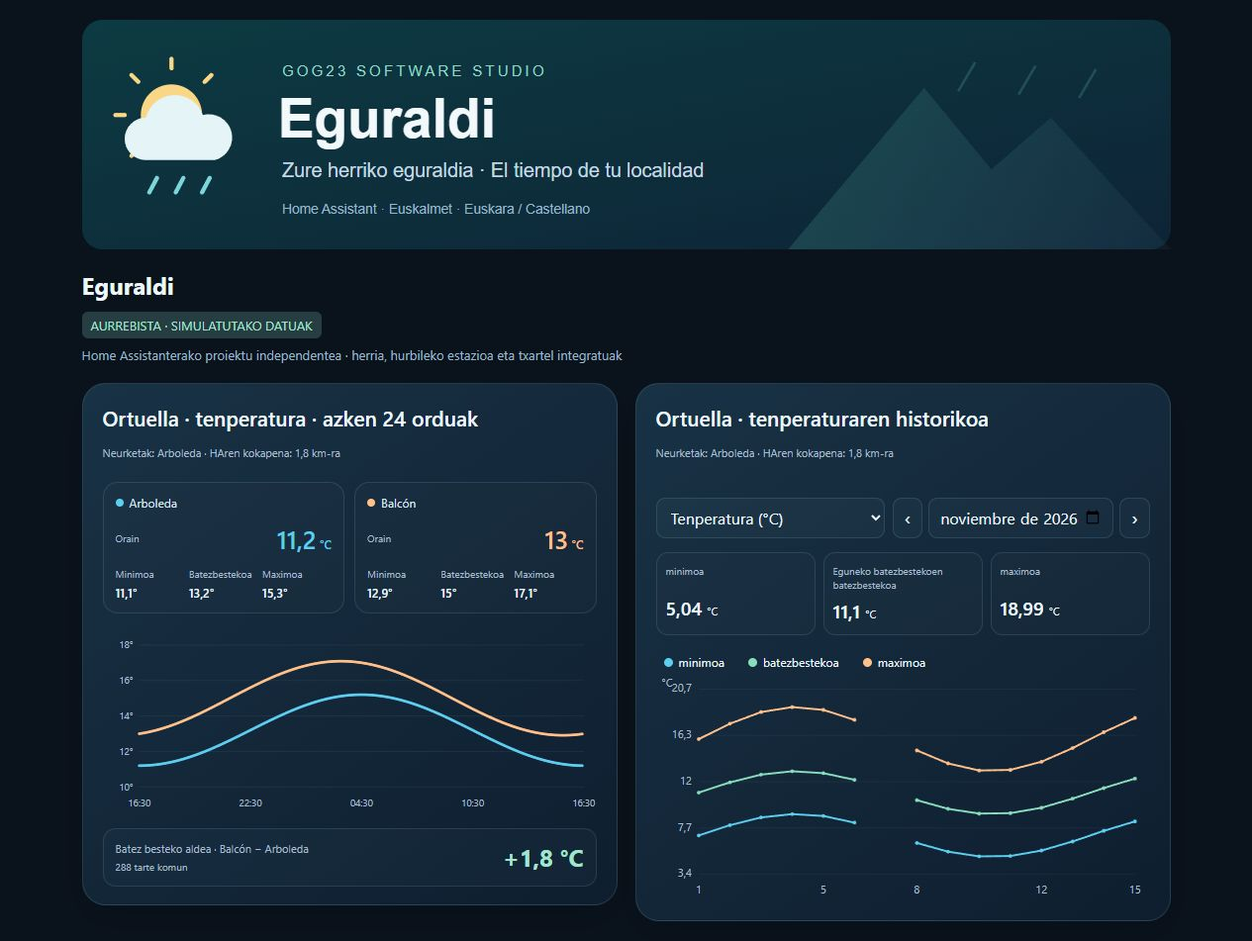
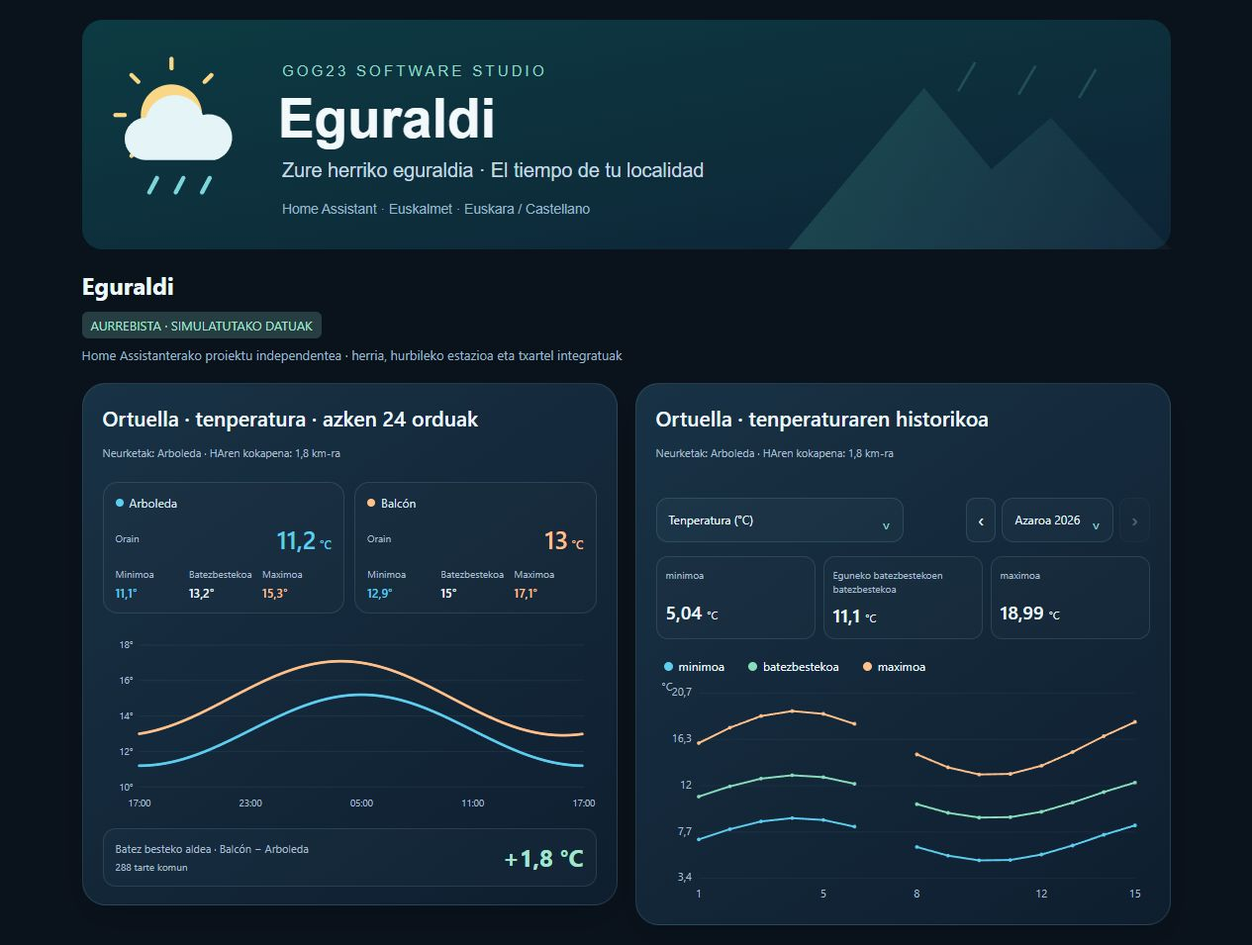
Replace history selectors with styled measure and month pickers

diff --git a/custom_components/euskalmet_local/frontend/euskalmet-history-card.js b/custom_components/euskalmet_local/frontend/euskalmet-history-card.js
@@ -7,6 +7,9 @@ class EuskalmetHistoryCard extends HTMLElement {
     this.date.setDate(1);
     this.retries = 0;
     this.hiddenSeries = new Set();
+    this._outsidePicker = event => {
+      if (!event.composedPath().includes(this)) this.closePickers();
+    };
   }
 
   setConfig(config) {
@@ -39,8 +42,8 @@ class EuskalmetHistoryCard extends HTMLElement {
     this.error = null; this.retries = 0;
   }
 
-  connectedCallback() { this.scheduleLoad(); }
-  disconnectedCallback() { clearTimeout(this.retryTimer); }
+  connectedCallback() { document.addEventListener('pointerdown',this._outsidePicker);this.scheduleLoad(); }
+  disconnectedCallback() { document.removeEventListener('pointerdown',this._outsidePicker);clearTimeout(this.retryTimer); }
   getCardSize() { return 7; }
   static getStubConfig() { return { measure: "temperature" }; }
 
@@ -54,7 +57,7 @@ class EuskalmetHistoryCard extends HTMLElement {
       loadError: "Ezin izan da historikoa kargatu.",
       retry: "Saiatu berriro",
       noData: "Ez dago hilabete honetako daturik.",
-      selectDate: "Aukeratu hilabetea",
+      selectDate: "Aukeratu hilabetea", selectMeasure:"Aukeratu neurria",previousYear:"Aurreko urtea",nextYear:"Hurrengo urtea",
       previous: "Aurreko hilabetea",
       next: "Hurrengo hilabetea",
       showSeries: "Erakutsi seriea",
@@ -74,7 +77,7 @@ class EuskalmetHistoryCard extends HTMLElement {
       loadError: "No se pudo cargar el histórico.",
       retry: "Reintentar",
       noData: "No hay datos para este mes.",
-      selectDate: "Seleccionar mes",
+      selectDate: "Seleccionar mes", selectMeasure:"Seleccionar medida",previousYear:"Año anterior",nextYear:"Año siguiente",
       previous: "Mes anterior",
       next: "Mes siguiente",
       showSeries: "Mostrar serie",
@@ -177,15 +180,56 @@ class EuskalmetHistoryCard extends HTMLElement {
   }
 
   changeDate(year, month) {
-    const next = new Date(year, month - 1, 1);
+    const next = new Date();next.setFullYear(year,month-1,1);next.setHours(0,0,0,0);
+    if (!Number.isFinite(next.getTime())) return;
     const now = new Date();
     const currentMonth = new Date(now.getFullYear(), now.getMonth(), 1);
     if (next > currentMonth) return;
     this.date = next;
-    this.data = null;
-    this.loaded = false;
-    this.retries = 0;
+    this._picker=null;this._pickerYear=next.getFullYear();
+    this._invalidateSource();
+    this.render();
     this.scheduleLoad(true);
+  }
+
+  monthLabel(index,short=false) {
+    const names=this.text().locale==='eu-ES'
+      ? ['urtarrila','otsaila','martxoa','apirila','maiatza','ekaina','uztaila','abuztua','iraila','urria','azaroa','abendua']
+      : ['enero','febrero','marzo','abril','mayo','junio','julio','agosto','septiembre','octubre','noviembre','diciembre'];
+    return short?names[index].slice(0,3):names[index];
+  }
+
+  closePickers() {
+    this._picker=null;
+    this.shadowRoot.querySelectorAll('details.picker').forEach(picker=>{picker.open=false;});
+  }
+
+  bindPickers() {
+    const root=this.shadowRoot;
+    root.querySelectorAll('details.picker').forEach(picker=>{
+      picker.addEventListener('toggle',()=>{
+        if(picker.open){this._picker=picker.dataset.picker;root.querySelectorAll('details.picker').forEach(other=>{if(other!==picker)other.open=false;});}
+        else if(this._picker===picker.dataset.picker)this._picker=null;
+      });
+      picker.addEventListener('keydown',event=>{
+        if(event.key==='Escape'){event.preventDefault();this.closePickers();picker.querySelector('summary').focus();}
+        if(['ArrowDown','ArrowUp','Home','End'].includes(event.key)){
+          event.preventDefault();picker.open=true;
+          const buttons=Array.from(picker.querySelectorAll('.picker-panel button:not(:disabled)'));
+          const current=buttons.indexOf(root.activeElement),next=event.key==='Home'?0:event.key==='End'?buttons.length-1:current<0?(event.key==='ArrowUp'?buttons.length-1:0):(current+(event.key==='ArrowUp'?-1:1)+buttons.length)%buttons.length;
+          buttons[next]?.focus();
+        }
+      });
+    });
+    root.querySelectorAll('[data-measure]').forEach(button=>button.addEventListener('click',()=>{
+      this.config.measure=button.dataset.measure;this.hiddenSeries.clear();this.closePickers();this.render();root.querySelector('#measure').focus();
+    }));
+    root.querySelectorAll('[data-year-step]').forEach(button=>button.addEventListener('click',()=>{
+      this._pickerYear+=Number(button.dataset.yearStep);this._picker='date';this.render();root.querySelector(`[data-year-step="${button.dataset.yearStep}"]`).focus();
+    }));
+    root.querySelectorAll('[data-month]').forEach(button=>button.addEventListener('click',()=>{
+      this.changeDate(this._pickerYear,Number(button.dataset.month));root.querySelector('#month').focus();
+    }));
   }
 
   shift(delta) {
@@ -279,7 +323,8 @@ class EuskalmetHistoryCard extends HTMLElement {
         return `<path class="line" data-field="${series.field}" stroke="${series.color}" d="${path}"/>${dots}`;
       }).join('');
     }).join("");
-    const month = this.date.toLocaleDateString(text.locale, { month: "long", year: "numeric" });
+    const month = `${this.monthLabel(this.date.getMonth())} ${this.date.getFullYear()}`;
+    const pickerYear=this._pickerYear??this.date.getFullYear();this._pickerYear=pickerYear;
 
     return `<div class="legend">${allSeries.map((series) => {
       const hidden = this.hiddenSeries.has(series.field);
@@ -383,7 +428,8 @@ class EuskalmetHistoryCard extends HTMLElement {
     const monthValue = `${this.date.getFullYear()}-${String(this.date.getMonth() + 1).padStart(2, "0")}`;
     const now = new Date();
     const maximumMonth = `${now.getFullYear()}-${String(now.getMonth() + 1).padStart(2, "0")}`;
-    const month = this.date.toLocaleDateString(text.locale, { month: "long", year: "numeric" });
+    const month = `${this.monthLabel(this.date.getMonth())} ${this.date.getFullYear()}`;
+    const pickerYear=this._pickerYear??this.date.getFullYear();this._pickerYear=pickerYear;
     const graph = this.graph(text);
     const body = this.loading ? `<div class="message">${text.loading}</div>`
       : this.error
@@ -394,12 +440,19 @@ class EuskalmetHistoryCard extends HTMLElement {
       :host{display:block}*{box-sizing:border-box}ha-card{display:block;padding:18px;overflow:hidden;background:linear-gradient(145deg,#1b3246,#101e30);border:1px solid #9acdd926;border-radius:22px;color:#edf8ff;font-family:var(--primary-font-family,system-ui)}ha-card.embedded{padding:0 20px 18px;border:0;border-radius:0;background:transparent;box-shadow:none}
       header{display:flex;justify-content:space-between;gap:16px;align-items:flex-start}
       h2{font-size:20px;margin:0 0 3px}header small{color:#a9becf;text-transform:capitalize}
-      .controls{display:flex;gap:8px;align-items:center;flex-wrap:wrap;margin:16px 0 4px}
-      .date-tools{display:flex;gap:6px;margin-left:auto}
+      .controls{position:relative;z-index:3;display:flex;gap:8px;align-items:center;flex-wrap:wrap;margin:16px 0 4px}
+      .date-tools{display:flex;gap:6px;margin-left:auto;min-width:0}
       button,select,input{font:inherit;color:#edf8ff;background:#87b5d00b;
         border:1px solid #9acdd926;border-radius:9px;padding:8px 10px}
       button{cursor:pointer}button:hover{background:#87b5d022}button:focus-visible,select:focus-visible,input:focus-visible{outline:2px solid #68cef3;outline-offset:2px}
-      input[type="month"]{color-scheme:light dark;min-width:145px}
+      .picker{position:relative;min-width:0}.picker summary{display:flex;align-items:center;justify-content:space-between;gap:12px;list-style:none;font-size:12px;min-height:42px;cursor:pointer;color:#edf8ff;background:#87b5d00b;border:1px solid #9acdd926;border-radius:12px;padding:10px 12px}
+      .picker summary::-webkit-details-marker{display:none}.picker summary::after{content:'⌄';color:#8ed9d1;font-size:16px}.picker[open] summary{border-color:#8ed9d1;background:#8ecade12}.picker summary:focus-visible{outline:2px solid #8ed9d1;outline-offset:2px}
+      .measure-picker{flex:1 1 170px;max-width:250px}.date-picker{flex:1;min-width:0}.date-picker summary{text-transform:capitalize;white-space:nowrap}
+      .picker-panel{position:absolute;top:calc(100% + 8px);left:0;z-index:10;min-width:100%;max-width:calc(100vw - 48px);padding:6px;background:#142a3b;border:1px solid #8ed9d14d;border-radius:14px;box-shadow:0 12px 28px #0005}
+      .measure-picker .picker-panel{width:260px}.picker-panel button{display:flex;align-items:center;justify-content:space-between;gap:12px;width:100%;border:0;border-radius:8px;padding:10px;font-size:12px;line-height:1.4;text-align:left;background:transparent}
+      .picker-panel button[aria-pressed="true"]{color:#8ed9d1;background:#8ed9d118}.picker-panel button:disabled,.nav:disabled{opacity:.3;cursor:default}.picker-panel button:hover:not(:disabled){background:#8ed9d122}.picker-panel .check{color:#8ed9d1}
+      .date-picker .picker-panel{left:auto;right:0;width:260px}.year-nav{display:grid;grid-template-columns:34px 1fr 34px;align-items:center;gap:8px;margin-bottom:6px}.year-nav strong{text-align:center;font-size:15px;font-weight:550}.year-nav button{justify-content:center;padding:6px;font-size:20px}.month-grid{display:grid;grid-template-columns:repeat(3,minmax(0,1fr));gap:4px}.month-grid button{justify-content:center;text-transform:capitalize}
+
       .nav{font-size:20px;line-height:18px;padding:7px 11px}
       .legend{display:flex;gap:8px;align-items:center;flex-wrap:wrap;margin:13px 0 2px}
       .legend-item{border:0;padding:5px 8px;font-size:12px;background:transparent}
@@ -419,19 +472,26 @@ class EuskalmetHistoryCard extends HTMLElement {
       .tooltip .max{background:#ffbf83}.tooltip .total{background:#68cef3}
       .message{min-height:280px;display:flex;gap:12px;flex-direction:column;align-items:center;justify-content:center;text-align:center}
       .history-metrics{display:grid;grid-template-columns:repeat(3,minmax(0,1fr));gap:8px;margin:14px 0}.history-metrics div{border:1px solid #9acdd926;border-radius:12px;background:#ffffff03;padding:11px 9px;min-width:0}.history-metrics span{display:block;color:#a9becf;font-size:10px;min-height:25px}.history-metrics strong{display:block;margin-top:6px;font-weight:550;font-size:19px}.history-metrics small{font-size:11px;font-weight:400}.history-foot{font-size:10px;color:#a9becf;margin-top:12px;line-height:1.5}
-      @media(max-width:600px){ha-card{padding:14px}.controls{align-items:stretch}.controls select{width:100%}
-        .date-tools{margin-left:0;width:100%}.date-tools input{flex:1}.chart-wrap{margin:0 -8px}.axis,.unit{font-size:20px}ha-card.embedded{padding:0 12px 16px}
+      @media(max-width:600px){ha-card{padding:14px}.controls{align-items:stretch}.controls .measure-picker{width:100%;max-width:none;flex-basis:100%}
+        .date-tools{margin-left:0;width:100%}.date-tools .date-picker{flex:1}.chart-wrap{margin:0 -8px}.axis,.unit{font-size:20px}ha-card.embedded{padding:0 12px 16px}
         .legend{gap:2px}.legend-item{padding:5px 6px}}
     </style>
     <ha-card class="${this.config.embedded ? "embedded" : ""}">
       <header><div>${this.config.show_title === false ? "" : `<h2>${historyEscape(this.config.title || text.title)}</h2>`}${this.config.show_title === false ? "" : `<small>${month}</small>`}</div></header>
       <div class="controls">
-        <select id="measure">${Object.entries(text.measures).map(([key, label]) =>
-          `<option value="${key}" ${key === this.config.measure ? "selected" : ""}>${label}</option>`).join("")}</select>
+        <details class="picker measure-picker" data-picker="measure" ${this._picker==='measure'?'open':''}>
+          <summary id="measure" aria-label="${text.selectMeasure}">${historyEscape(text.measures[this.config.measure]||this.config.measure)}</summary>
+          <div class="picker-panel" role="group" aria-label="${text.selectMeasure}">${Object.entries(text.measures).map(([key,label])=>`<button type="button" data-measure="${key}" aria-label="${historyEscape(label)}" aria-pressed="${key===this.config.measure}">${label}<span class="check" aria-hidden="true">${key===this.config.measure?'✓':''}</span></button>`).join('')}</div>
+        </details>
         <div class="date-tools">
           <button class="nav" id="prev" title="${text.previous}" aria-label="${text.previous}">‹</button>
-          <input id="month" type="month" value="${monthValue}" max="${maximumMonth}"
-            title="${text.selectDate}" aria-label="${text.selectDate}">
+          <details class="picker date-picker" data-picker="date" ${this._picker==='date'?'open':''}>
+            <summary id="month" aria-label="${text.selectDate}">${month}</summary>
+            <div class="picker-panel" role="group" aria-label="${text.selectDate}">
+              <div class="year-nav"><button type="button" data-year-step="-1" ${pickerYear<=1?'disabled':''} aria-label="${text.previousYear}">‹</button><strong>${pickerYear}</strong><button type="button" data-year-step="1" ${pickerYear>=now.getFullYear()?'disabled':''} aria-label="${text.nextYear}">›</button></div>
+              <div class="month-grid">${Array.from({length:12},(_,index)=>`<button type="button" data-month="${index+1}" aria-label="${this.monthLabel(index)} ${pickerYear}" aria-pressed="${pickerYear===this.date.getFullYear()&&index===this.date.getMonth()}" ${pickerYear===now.getFullYear()&&index>now.getMonth()?'disabled':''}>${this.monthLabel(index,true)}</button>`).join('')}</div>
+            </div>
+          </details>
           <button class="nav" id="next" ${monthValue === maximumMonth ? "disabled" : ""} title="${text.next}" aria-label="${text.next}">›</button>
         </div>
       </div>
@@ -441,19 +501,11 @@ class EuskalmetHistoryCard extends HTMLElement {
 
     this.shadowRoot.querySelector("#prev")?.addEventListener("click", () => this.shift(-1));
     this.shadowRoot.querySelector("#next")?.addEventListener("click", () => this.shift(1));
-    this.shadowRoot.querySelector("#month")?.addEventListener("change", (event) => {
-      const [year, monthNumber] = event.target.value.split("-").map(Number);
-      if (year && monthNumber) this.changeDate(year, monthNumber);
-    });
     this.shadowRoot.querySelector("#retry")?.addEventListener("click", () => {
       this.retries = 0;
       this.scheduleLoad(true);
     });
-    this.shadowRoot.querySelector("#measure")?.addEventListener("change", (event) => {
-      this.config.measure = event.target.value;
-      this.hiddenSeries.clear();
-      this.render();
-    });
+    this.bindPickers();
     this.bindGraph(text);
   }
 }

diff --git a/custom_components/euskalmet_local/frontend/eguraldi-comparison-card.js b/custom_components/euskalmet_local/frontend/eguraldi-comparison-card.js
@@ -45,9 +45,9 @@ class EguraldiComparisonCard extends HTMLElement {
   time(value){return new Intl.DateTimeFormat(this.text().locale,{timeZone:this._hass?.config?.time_zone||'Europe/Madrid',hour:'2-digit',minute:'2-digit'}).format(new Date(value));}
   render(){
     if(!this.config)return;const t=this.text(),unit=this.unit(),ids=[this.config.entity,...(this.config.comparison_entity?[this.config.comparison_entity]:[])],names=[this.config.station_name||t.station,this.config.comparison_name||t.comparison],colors=['#68cef3','#ffbf83'],pairs=this.pairs(),difference=pairs.length?pairs.reduce((a,b)=>a+b,0)/pairs.length:null;
-    const graph=this.graph(names,colors),cards=ids.map((id,index)=>{const stats=this.stats(this._data?.series[index]||[]);return `<article style="--series:${colors[index]}"><button class="legend ${this._hidden.has(index)?'off':''}" data-series="${index}" aria-pressed="${!this._hidden.has(index)}" title="${comparisonEscape(this._hidden.has(index)?t.show:t.hide)}"><i></i>${comparisonEscape(names[index])}</button><div class="current"><span>${comparisonEscape(t.current)}</span><strong>${this.format(this.current(id))}<small> ${unit}</small></strong></div><div class="stats">${['min','mean','max'].map(key=>`<div><span>${comparisonEscape(t[key])}</span><b>${this.format(stats[key])}°</b></div>`).join('')}</div></article>`;}).join('');
+    const graph=this.graph(names,colors),cards=ids.map((id,index)=>{const stats=this.stats(this._data?.series[index]||[]);return `<article style="--series:${colors[index]}"><button class="legend ${this._hidden.has(index)?'off':''}" data-series="${index}" aria-pressed="${!this._hidden.has(index)}" title="${comparisonEscape(this._hidden.has(index)?t.show:t.hide)}"><i></i>${comparisonEscape(names[index])}</button><div class="current"><span>${comparisonEscape(t.current)}</span><strong>${this.format(this.current(id))}<small> ${unit}</small></strong></div><div class="stats">${['min','mean','max'].map(key=>`<div class="${key}"><span>${comparisonEscape(t[key])}</span><b>${this.format(stats[key])}°</b></div>`).join('')}</div></article>`;}).join('');
     this.shadowRoot.innerHTML=`<style>
-      :host{display:block;color:#edf8ff;font-family:var(--primary-font-family,system-ui)}*{box-sizing:border-box}.body{padding:0 20px 18px}.cards{display:grid;grid-template-columns:repeat(${ids.length},minmax(0,1fr));gap:10px}article{border:1px solid #9acdd926;border-radius:15px;background:#ffffff03;padding:12px;min-width:0}.legend{display:flex;align-items:center;gap:6px;max-width:100%;border:0;padding:0;background:none;color:#d6eaf5;font:inherit;font-size:12px;text-align:left;cursor:pointer;overflow-wrap:anywhere}.legend i{display:inline-block;background:var(--series);border-radius:50%;height:8px;width:8px;flex-shrink:0}.legend.off{opacity:.5;text-decoration:line-through}.current{display:flex;justify-content:space-between;align-items:center;gap:6px;margin:12px 0}.current span,.stats span{color:#a9becf;font-size:10px}.current strong{font-size:25px;font-weight:550;color:var(--series)}.current small{font-size:12px}.stats{display:grid;grid-template-columns:repeat(3,minmax(0,1fr));gap:4px}.stats div{display:grid;gap:4px;min-width:0}.stats span{overflow-wrap:anywhere}.stats b{font-size:12px;font-weight:500}svg{display:block;width:100%;height:auto;margin:18px 0 12px;overflow:visible}svg text{fill:#a9becf;font-size:14px}.grid{stroke:#a9cbe41a;stroke-width:1}svg path{fill:none;stroke-width:2.4;stroke-linejoin:round}circle:focus{stroke:white;stroke-width:3;outline:none}.difference{border:1px solid #9acdd926;border-radius:13px;background:#8ecade08;padding:12px;display:flex;justify-content:space-between;align-items:center;gap:10px}.difference span{font-size:11px;color:#a9becf}.difference small{display:block;font-size:10px;margin-top:4px}.difference strong{font-size:24px;color:#a6e6ce;white-space:nowrap}.foot{font-size:10px;color:#a9becf;margin-top:12px;line-height:1.6}.message{padding:25px 10px;text-align:center;color:#a9becf;font-size:12px}button:focus-visible{outline:2px solid #68cef3;outline-offset:4px}.retry{background:#ffffff08;border:1px solid #9acdd926;border-radius:8px;color:#edf8ff;padding:8px 14px;margin:8px;font:inherit}@media(max-width:550px){.body{padding:0 12px 16px}svg text{font-size:19px}.current{align-items:flex-start;flex-direction:column}.difference strong{font-size:21px}.cards{gap:8px}article{padding:10px}}
+      :host{display:block;color:#edf8ff;font-family:var(--primary-font-family,system-ui)}*{box-sizing:border-box}.body{padding:0 20px 18px}.cards{display:grid;grid-template-columns:repeat(${ids.length},minmax(0,1fr));gap:10px}article{border:1px solid #9acdd926;border-radius:15px;background:#ffffff03;padding:12px;min-width:0}.legend{display:flex;align-items:center;gap:6px;max-width:100%;border:0;padding:0;background:none;color:#d6eaf5;font:inherit;font-size:12px;text-align:left;cursor:pointer;overflow-wrap:anywhere}.legend i{display:inline-block;background:var(--series);border-radius:50%;height:8px;width:8px;flex-shrink:0}.legend.off{opacity:.5;text-decoration:line-through}.current{display:flex;justify-content:space-between;align-items:center;gap:6px;margin:12px 0}.current span,.stats span{color:#a9becf;font-size:10px}.current strong{font-size:25px;font-weight:550;color:var(--series)}.current small{font-size:12px}.stats{display:grid;grid-template-columns:repeat(3,minmax(0,1fr));gap:4px}.stats div{display:grid;gap:4px;min-width:0}.stats span{overflow-wrap:anywhere}.stats b{font-size:12px;font-weight:500}.stats .min b{color:#68cef3}.stats .max b{color:#ffbf83}svg{display:block;width:100%;height:auto;margin:18px 0 12px;overflow:visible}svg text{fill:#a9becf;font-size:14px}.grid{stroke:#a9cbe41a;stroke-width:1}svg path{fill:none;stroke-width:2.4;stroke-linejoin:round}circle:focus{stroke:white;stroke-width:3;outline:none}.difference{border:1px solid #9acdd926;border-radius:13px;background:#8ecade08;padding:12px;display:flex;justify-content:space-between;align-items:center;gap:10px}.difference span{font-size:11px;color:#a9becf}.difference small{display:block;font-size:10px;margin-top:4px}.difference strong{font-size:24px;color:#a6e6ce;white-space:nowrap}.foot{font-size:10px;color:#a9becf;margin-top:12px;line-height:1.6}.message{padding:25px 10px;text-align:center;color:#a9becf;font-size:12px}button:focus-visible{outline:2px solid #68cef3;outline-offset:4px}.retry{background:#ffffff08;border:1px solid #9acdd926;border-radius:8px;color:#edf8ff;padding:8px 14px;margin:8px;font:inherit}@media(max-width:550px){.body{padding:0 12px 16px}svg text{font-size:19px}.current{align-items:flex-start;flex-direction:column}.difference strong{font-size:21px}.cards{gap:8px}article{padding:10px}}
       </style><div class="body"><div class="cards">${cards}</div>${this._error?`<div class="message">${comparisonEscape(t.error)}<br><button class="retry">${comparisonEscape(t.retry)}</button></div>`:graph||`<div class="message">${comparisonEscape(this._loading?t.loading:t.none)}</div>`}${this.config.comparison_entity?`<div class="difference"><span>${comparisonEscape(t.difference)} · ${comparisonEscape(names[1])} − ${comparisonEscape(names[0])}<small>${pairs.length?`${pairs.length} ${comparisonEscape(t.coincident)}`:comparisonEscape(t.noPairs)}</small></span><strong>${difference===null?'—':`${difference>0?'+':''}${this.format(difference,2)} ${unit}`}</strong></div>`:`<div class="message">${comparisonEscape(t.select)}</div>`}</div>`;
     this.shadowRoot.querySelectorAll('[data-series]').forEach(button=>button.addEventListener('click',()=>{const index=Number(button.dataset.series);if(this._hidden.has(index))this._hidden.delete(index);else this._hidden.add(index);this.render();}));
     this.shadowRoot.querySelector('.retry')?.addEventListener('click',()=>this.load(true));

diff --git a/docs/preview.html b/docs/preview.html
@@ -6,7 +6,7 @@
 
 <script type="module">
 
-import {EuskalmetLocalCard} from '/euskalmet_local_static/euskalmet-local-card.js?v=0.1.9';
+import {EuskalmetLocalCard} from '/euskalmet_local_static/euskalmet-local-card.js?v=0.1.10-controls';
 
 const now=new Date().setMinutes(0,0,0),loc={entry_id:'demo',locality:'Ortuella',station:'Arboleda',location_source:'home_assistant',distance_km:1.8,latitude:43.31,longitude:-3.05,entities:{weather:'weather.demo',temperature:'sensor.demo_temperature',humidity:'sensor.demo_humidity',precipitation_today:'sensor.demo_rain',temperature_min_today:'sensor.demo_min',temperature_max_today:'sensor.demo_max',wind_gust_max_today:'sensor.demo_gust',irradiance:'sensor.demo_irradiance'}};
 

diff --git a/custom_components/euskalmet_local/frontend/euskalmet-local-card.js b/custom_components/euskalmet_local/frontend/euskalmet-local-card.js
@@ -1,8 +1,8 @@
 /* Eguraldi — GOG23 Software Studio. MIT. Icons: Meteocons / Bas Milius. */
-import './euskalmet-alert-card.js?v=0.1.9';
-import './eguraldi-comparison-card.js?v=0.1.9';
-import './euskalmet-history-card.js?v=0.1.9';
-import './euskalmet-radar-map-card.js?v=0.1.9';
+import './euskalmet-alert-card.js?v=0.1.10';
+import './eguraldi-comparison-card.js?v=0.1.10';
+import './euskalmet-history-card.js?v=0.1.10-controls';
+import './euskalmet-radar-map-card.js?v=0.1.10';
 
 const EU_TEXT = {
   "Despejado": "Oskarbi",

diff --git a/custom_components/euskalmet_local/dashboard.py b/custom_components/euskalmet_local/dashboard.py
@@ -7,7 +7,7 @@ from homeassistant.helpers import entity_registry as er
 
 from .const import DOMAIN
 
-VERSION = "0.1.9"
+VERSION = "0.1.10"
 EVENT_LOCATIONS_UPDATED = f"{DOMAIN}_locations_updated"
 
 

diff --git a/README.eu.md b/README.eu.md
@@ -11,7 +11,7 @@ Euskalmeteko eguraldia Home Assistanten: hurbileko estazioen neurketak, orduko e
 [![Egiaztapenak](https://github.com/GOG23-Software-Studio/eguraldi/actions/workflows/ci.yml/badge.svg)](https://github.com/GOG23-Software-Studio/eguraldi/actions/workflows/ci.yml)
 [![Bertsioa](https://img.shields.io/github/v/release/GOG23-Software-Studio/eguraldi)](https://github.com/GOG23-Software-Studio/eguraldi/releases)
 
-**0.1.9 bertsioa.** Komunitate-proiektu independentea, Euskalmetekin edo Eusko Jaurlaritzarekin lotura ofizialik gabea.
+**0.1.10 bertsioa.** Komunitate-proiektu independentea, Euskalmetekin edo Eusko Jaurlaritzarekin lotura ofizialik gabea.
 
 ![Eguraldiren txartelak, simulatutako datuekin](docs/preview-eu.jpg)
 
@@ -91,6 +91,8 @@ Kokapen bakarra badago, automatikoki hautematen da. Hainbat badaude, gorde kokap
 Grafikoak tenperatura eta orduko euria (mm) bereizten ditu. Asteko ikuspegiak hornitzaileak argitaratutako euri-datuak soilik erakusten ditu. Planifikatzaileak haize-boladak eta aurreikusitako haize maximoa bereizten ditu, eta radarra zabaltzeko botoia du. Radarrak satelite-mapa erabiltzen du lehenespenez, goiko izenbururik gabe; editorean beste mapa bat hauta daiteke. Abisuek goiburu bakarra dute.
 
 ![Tenperaturen konparazioa eta hileko historikoa](docs/history-comparison-eu.jpg)
+
+Historikoak neurriaren eta hilabete/urtearen hautagailu propioak ditu, atzeko plano ilunarekin, teklatu bidezko nabigazioarekin eta euskarazko datekin.
 
 ![Eguraldi · radar · demo](docs/radar-eu.jpg)
 

diff --git a/README.md b/README.md
@@ -12,7 +12,7 @@ El tiempo de Euskalmet en Home Assistant: observaciones de estaciones cercanas, 
 
 [![Versión](https://img.shields.io/github/v/release/GOG23-Software-Studio/eguraldi)](https://github.com/GOG23-Software-Studio/eguraldi/releases)
 
-**Versión 0.1.9.** Proyecto comunitario independiente, sin afiliación con Euskalmet ni con el Gobierno Vasco.
+**Versión 0.1.10.** Proyecto comunitario independiente, sin afiliación con Euskalmet ni con el Gobierno Vasco.
 
 ![Tarjetas actuales de Eguraldi en escritorio, con datos simulados](docs/preview.jpg)
 
@@ -115,6 +115,8 @@ Con una sola ubicación se detecta automáticamente. Con varias, guarda la ubica
 El gráfico separa temperatura y lluvia horaria (mm). La semana visual muestra lluvia solo si el proveedor la publica. El planificador distingue la racha máxima del viento máximo previsto y ofrece un radar desplegable. El radar usa mapa satélite por defecto, sin título superior; puedes elegir otro mapa en el editor. Los avisos mantienen una sola cabecera.
 
 ![Comparación de temperaturas e histórico mensual](docs/history-comparison.jpg)
+
+El histórico incluye menús propios de medida y mes/año, con contraste oscuro, navegación por teclado y fechas en castellano o euskera.
 
 ![Eguraldi · radar · demo](docs/radar.jpg)
 

diff --git a/CHANGELOG.md b/CHANGELOG.md
@@ -1,5 +1,12 @@
 # Cambios
 
+## 0.1.10
+
+- Comparación de temperaturas con mínima azul y máxima naranja en ambos sensores. La media mantiene su color neutro.
+- Selectores propios de medida y mes/año, con fondo oscuro, buen contraste, teclado y cierre con Escape o al tocar fuera. Fechas en castellano y euskera.
+- Cambiar de mes descarta las respuestas pendientes del mes anterior.
+- Capturas de comparación e histórico actualizadas en castellano y euskera.
+
 ## 0.1.9
 
 - Resumen de hoy con temperatura mínima azul y máxima naranja, igual que la semana visual.
